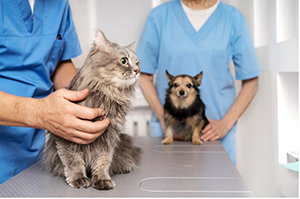
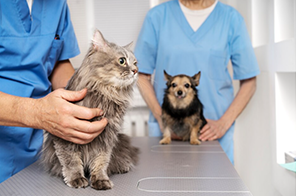
revisao dos codigos

diff --git a/fotos.html b/fotos.html
@@ -13,10 +13,10 @@
             <!-- Aqui vai o seu menu -->
             <ul>
                 
-                <li><a href="index.html"><button name="nome">Home</button></a></li>
-                <li><a href="#"><button name="name">A Vet Movel</button></a></li>
-                <li><a href="fotos.html"><button name="name">Fotos</button></a></li>
-                <li><a href="contato.html"><button name="name">Contato</button></a></li>
+             <li><a href="index.html"><button name="nome">Home</button></a></li>
+              <li><a href="fotos.html"><button name="name">Fotos</button></a></li>
+              <li><a href="#"><button name="name">A Vet Movel</button></a></li>
+              <li><a href="contato.html"><button name="name">Contato</button></a></li>
             
             </ul>
         </div>
@@ -33,20 +33,20 @@
             <div class="content">
               <!-- Claro! Aqui está um texto envolvente e profissional para o site da "VET MÓVEL":--> 
 <p>
-    <div>
-        <img src="./img/med.png" />
+    <div class="album">
+        <img src="./img/med.png" width="200px" alt="veterinaria segurando um gatinho e um cãozinho"/>
+    </div class="album">
+
+    <div class="album">
+        <img src="./img/med2.png" width="200px" alt="um gato na mesa de exames veterinário"/>
     </div>
 
-    <div>
-        <img src="./img/med2.png" />
+    <div class="album">
+        <img src="./img/med3.png" width="200px" alt="veterinário fazendo carinho em um cão" />
     </div>
 
-    <div>
-        <img src="./img/med3.png" />
-    </div>
-
-    <div>
-        <img src="./img/med4.png" />
+    <div class="album">
+        <img src="./img/med4.png" width="200px" alt="veterinário examinando um cão"/>
     </div>
 </p>
 

diff --git a/contato.html b/contato.html
@@ -14,9 +14,9 @@
             <ul>
                
               <li><a href="index.html"><button name="nome">Home</button></a></li>
-                <li><a href="#"><button name="name">A Vet Movel</button></a></li>
-                <li><a href="fotos.html"><button name="name">Fotos</button></a></li>
-                <li><a href="contato.html"><button name="name">Contato</button></a></li>
+              <li><a href="fotos.html"><button name="name">Fotos</button></a></li>
+              <li><a href="#"><button name="name">A Vet Movel</button></a></li>
+              <li><a href="contato.html"><button name="name">Contato</button></a></li>
             
             </ul>
         </div>
@@ -33,12 +33,10 @@
             <div class="content">
               <!-- Claro! Aqui está um texto envolvente e profissional para o site da "VET MÓVEL":--> 
 
-
-
-<form name="contato" autocomplete="off" method="post" action="">
-		Nome<input type="text" name="name" /> <br>
-		Idade<input type="number" name="age" /> <br>
-		Telefone<input type="number" name="Telefone" /><br>
+<form name="contato" autocomplete="off" onsubmit="alert('Formulário enviado');" method="post" action="aledeveloper@outlook.com">
+		<label>Nome</label><input type="text" name="name" /> <br>
+		<label> Idade</label><input type="number" name="age" /> <br>
+		<label> Telefone</label> <input type="number" name="Telefone" /><br>
 		<button type="button" >Enviar</button>
 
 </form>

diff --git a/index.html b/index.html
@@ -13,9 +13,9 @@
             <!-- Aqui vai o seu menu -->
             <ul>
                 <li><a href="index.html"><button name="nome">Home</button></a></li>
-                <li><a href="#"><button name="name">A Vet Movel</button></a></li>
-                <li><a href="fotos.html"><button name="name">Fotos</button></a></li>
-                <li><a href="contato.html"><button name="name">Contato</button></a></li>
+              <li><a href="fotos.html"><button name="name">Fotos</button></a></li>
+              <li><a href="#"><button name="name">A Vet Movel</button></a></li>
+              <li><a href="contato.html"><button name="name">Contato</button></a></li>
             </ul>
         </div>
 

diff --git a/base.css b/base.css
@@ -20,15 +20,18 @@ body {
     
 }
 .menu {
-    width: 15%;
-    background-color: rgb(23, 152, 109);
+    width: 20%;
+    background-color: rgb(25, 156, 112);
     font-family: Arial;
     padding: 10px 20px 0px;
     
 }
 
 button {
-    size: ;
+    width: 130px;
+    color: #2a4bef;
+    
+    
 }
 
 ul {
@@ -57,3 +60,10 @@ ul {
     min-height: 80px;
     
 }
+
+.album {
+    display: inline-flex;
+}
+
+/* -- contato -- */
+
